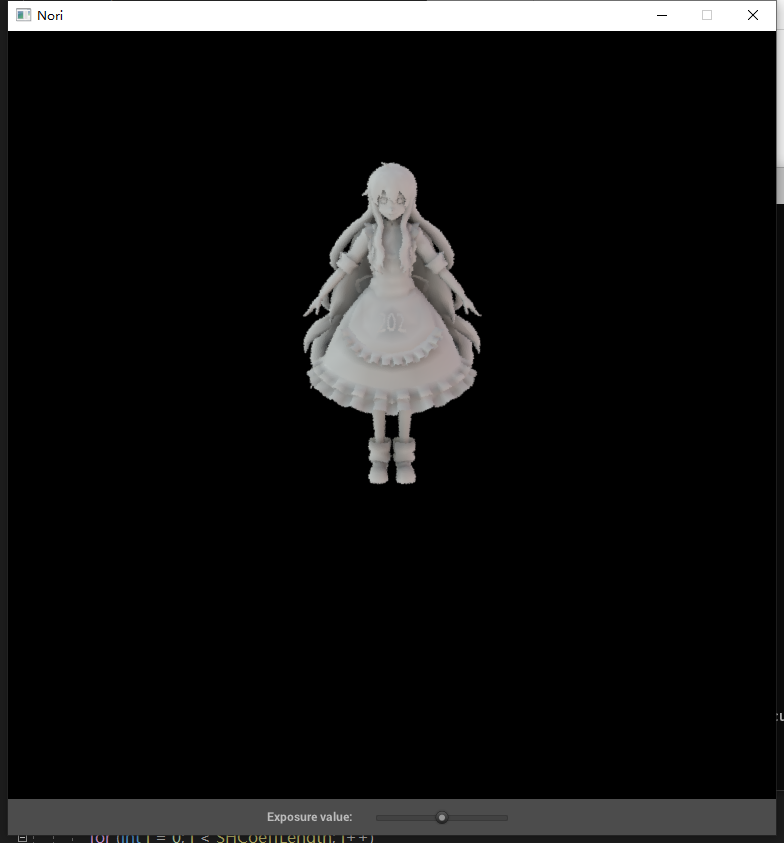
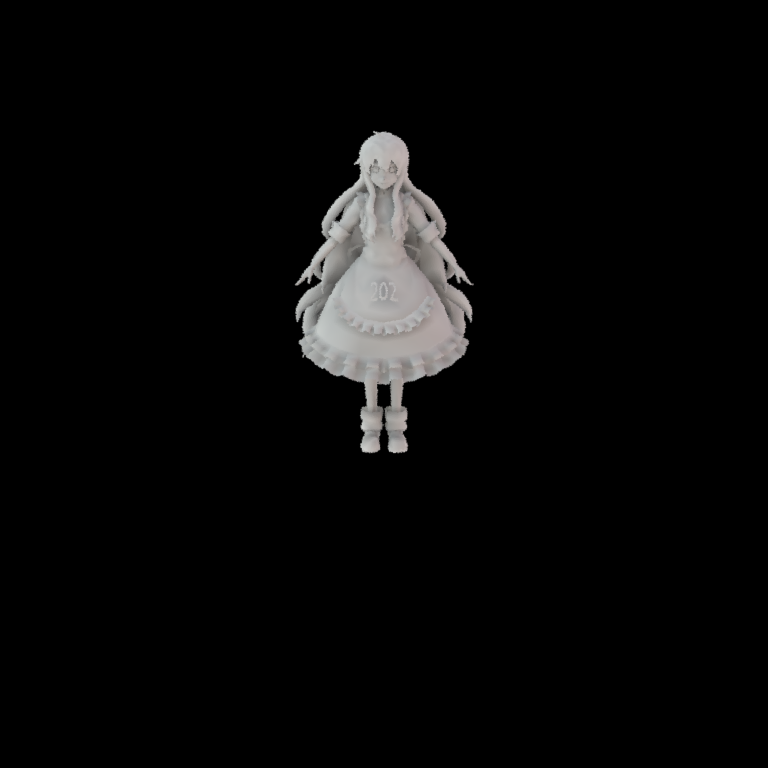
hw2 Interreflection

Changed region(s): [[0.0, 0.0, 1.0, 1.0], [0.375, 0.1562, 0.625, 0.4688], [0.4062, 0.4688, 0.5938, 0.5938]]

diff --git a/hw2/prt/src/prt.cpp b/hw2/prt/src/prt.cpp
@@ -184,18 +184,6 @@ public:
 
     void Interreflection(const Scene* scene, Eigen::MatrixXf& outCoeffs, int col, int bounce, const Point3f& v, const Normal3f& n)
     {
-        if (bounce-- <= 0)
-        {
-            return;
-        }
-
-        const auto mesh = scene->getMeshes()[0];
-
-		constexpr double area = 4.0 * M_PI;
-        constexpr double albedo = 1.0 / M_PI;
-        const double factor = area / m_SampleCount;
-        const double avg = 1.0 / m_SampleCount;
-
 		const int sample_side = static_cast<int>(floor(sqrt(m_SampleCount)));
 
 		// generate sample_side^2 uniformly and stratified samples over the sphere
@@ -203,58 +191,82 @@ public:
 		std::mt19937 gen(rd());
 		std::uniform_real_distribution<> rng(0.0, 1.0);
 
+		Eigen::MatrixXf sh_buffer;
+		sh_buffer.resize(SHCoeffLength, 1);
+
         for (int t = 0; t < sample_side; t++) {
             for (int p = 0; p < sample_side; p++) {
-                double alpha = (t + rng(gen)) / sample_side;
-                double beta = (p + rng(gen)) / sample_side;
-
-                double phi = 2.0 * M_PI * beta;
-                double theta = acos(2.0 * alpha - 1.0);
-
-                Eigen::Array3d d = sh::ToVector(phi, theta);
-                const auto wi = Vector3f(d.x(), d.y(), d.z());
-
-                float Hs = wi.dot(n);
-                if (Hs <= 0)
-                {
-                    continue;
-                }
-
-                Intersection intersect;
-                if (scene->rayIntersect(Ray3f(v, wi), intersect))
-                {
-                    Point3f v_ = intersect.p;
-
-                    int t1 = intersect.tri_index.x();
-                    int t2 = intersect.tri_index.y();
-                    int t3 = intersect.tri_index.z();
-
-                    auto c1 = m_TransportSHCoeffs.col(t1);
-                    auto c2 = m_TransportSHCoeffs.col(t2);
-                    auto c3 = m_TransportSHCoeffs.col(t3);
-
-                    auto n1 = mesh->getVertexNormals().col(t1);
-                    auto n2 = mesh->getVertexNormals().col(t2);
-                    auto n3 = mesh->getVertexNormals().col(t3);
-
-                    Normal3f n_ = n1 * intersect.bary.x() + n2 * intersect.bary.y() + n3 * intersect.bary.z();
-
-                    Eigen::MatrixXf sh_buffer;
-                    sh_buffer.resize(SHCoeffLength, 1);
-
-                    sh_buffer.col(0) =
-                        (c1 * intersect.bary.x() +
-                            c2 * intersect.bary.y() +
-                            c3 * intersect.bary.z()) * albedo * factor;
-
-                        Interreflection(scene, sh_buffer, 0, bounce, v_, n_);
-
-                    outCoeffs.col(col) += sh_buffer.col(0) * Hs * avg;
-                }
-
+                InterreflectionInternal(scene, sh_buffer, 0, bounce, v, n);
             }
         }
+
+        const double avg = 1.0 / m_SampleCount;
+        outCoeffs.col(col) += sh_buffer * avg;
     }
+
+	void InterreflectionInternal(const Scene* scene, Eigen::MatrixXf& outCoeffs, int col, int bounce, const Point3f& v, const Normal3f& n)
+	{
+		if (bounce-- <= 0)
+		{
+			return;
+		}
+
+		const auto mesh = scene->getMeshes()[0];
+
+		constexpr double area = 4.0 * M_PI;
+		constexpr double albedo = 1.0 / M_PI;
+		const double factor = area / m_SampleCount / M_PI;
+
+		// generate sample_side^2 uniformly and stratified samples over the sphere
+		std::random_device rd;
+		std::mt19937 gen(rd());
+		std::uniform_real_distribution<> rng(0.0, 1.0);
+
+		double alpha = rng(gen);
+		double beta = rng(gen);
+
+		double phi = 2.0 * M_PI * beta;
+		double theta = acos(2.0 * alpha - 1.0);
+
+		Eigen::Array3d d = sh::ToVector(phi, theta);
+		const auto wi = Vector3f(d.x(), d.y(), d.z());
+
+		float Hs = wi.dot(n);
+		if (Hs <= 0)
+		{
+			return;
+		}
+
+		Intersection intersect;
+		if (scene->rayIntersect(Ray3f(v, wi), intersect))
+		{
+			Point3f v_ = intersect.p;
+
+			int t1 = intersect.tri_index.x();
+			int t2 = intersect.tri_index.y();
+			int t3 = intersect.tri_index.z();
+
+			auto c1 = m_TransportSHCoeffs.col(t1);
+			auto c2 = m_TransportSHCoeffs.col(t2);
+			auto c3 = m_TransportSHCoeffs.col(t3);
+
+			auto n1 = mesh->getVertexNormals().col(t1);
+			auto n2 = mesh->getVertexNormals().col(t2);
+			auto n3 = mesh->getVertexNormals().col(t3);
+
+			Normal3f n_ = n1 * intersect.bary.x() + n2 * intersect.bary.y() + n3 * intersect.bary.z();
+
+            outCoeffs.col(0) +=
+				(c1 * intersect.bary.x() +
+					c2 * intersect.bary.y() +
+					c3 * intersect.bary.z()) * albedo * factor * Hs;
+
+			//if (rng(gen) > 0.5)
+			{
+				InterreflectionInternal(scene, outCoeffs, 0, bounce, v_, n_);
+			}
+		}
+	}
 
     virtual void preprocess(const Scene *scene) override
     {
